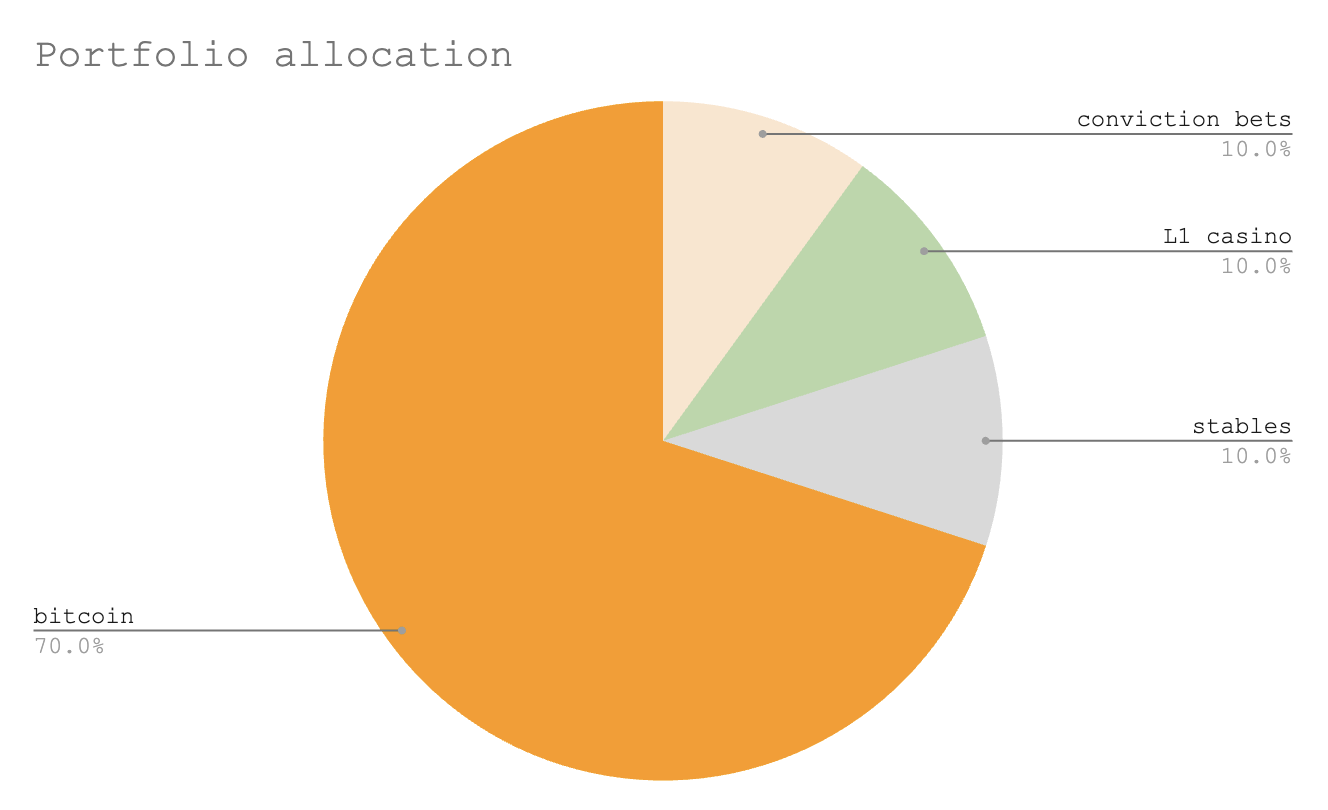
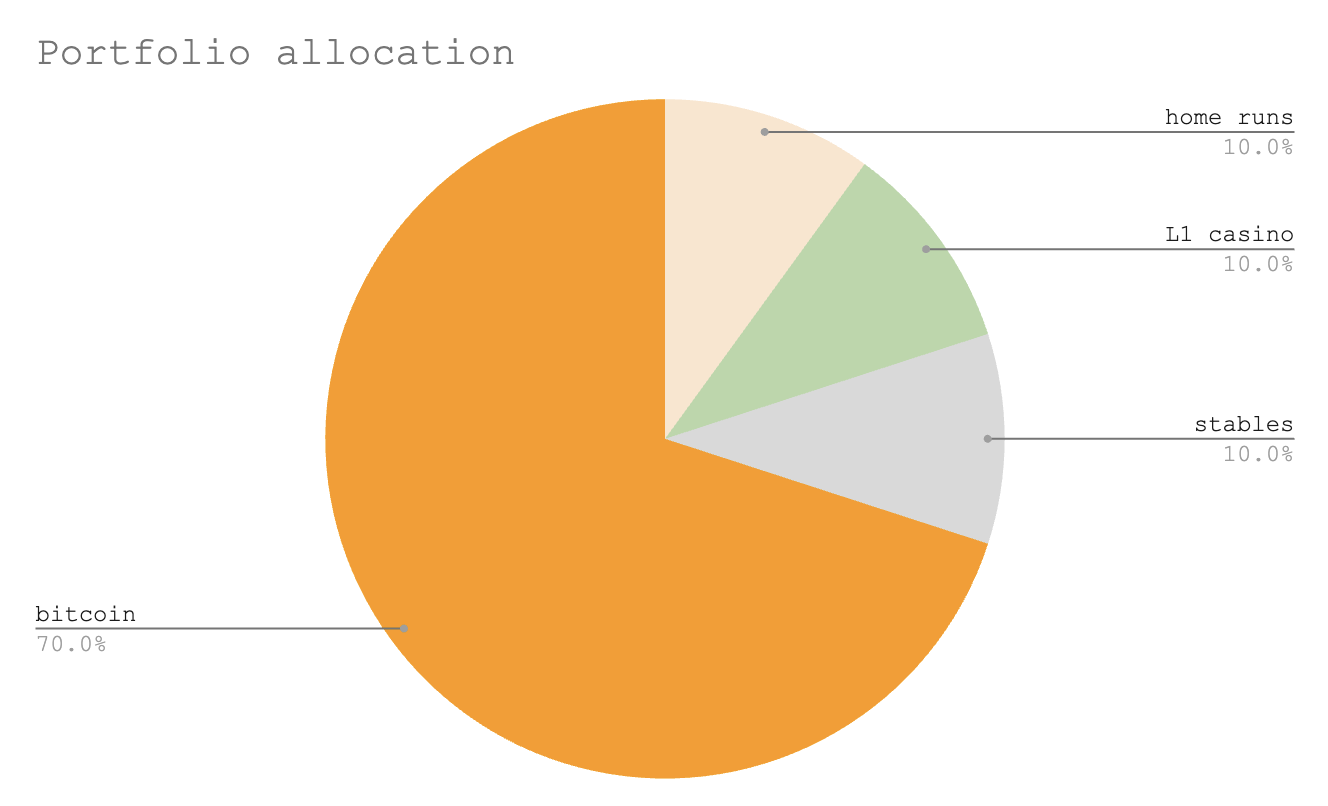
minor updates

diff --git a/_posts/2025-02-02-playbook.md b/_posts/2025-02-02-playbook.md
@@ -42,7 +42,7 @@ An ideal portfolio allocation looks as follows:
 - **70% bitcoin**. Bitcoin is the biggest and the most important asset in crypto. It is a digital gold and a store of value. The goal is to accumulate more BTC over time. My biggest lesson - don't touch or trade BTC, hold long-term.
 - **10% stables**. Always keep stables to deploy during mass liquidation events or when you find promising opportunities. Cash is the most underrated position and patience the most underrated skill out there.
 - **10% L1 casino**. Each cycle there's always a new form of speculation and activity (ICOs, NFTs, DeFi, games, memecoins) and thus there's always a chain that hosts the biggest casino for a given form of speculation. Bet on that asset until a big major event happens ($1M NFT purchase, Trump coin launch, etc). L1s top when speculation stops.
-- **10% conviction bets**. Conviction bets or homeruns are your big bets in crypto. Those require a clear thesis and a lot of patience. They are risky and take a longer time to play out, but if you know what you're doing, that's your 50-100x opportunities.
+- **10% home runs**. Home runs are your big bets in crypto. Those require a clear thesis and a lot of patience. They are risky and take a longer time to play out, but if you know what you're doing, that's your 50-100x opportunities.
 
 To simplify it, make it hard to fuck it up - keep majority of your portolio in BTC, not altcoins. Add BTC and alts during bear markets only. Don't touch BTC, sell alts 9-18 months later when the market is overheated. Do not overcomplicate it. Big money is made from holding a handful of big positions for a long time, not executing 100 smaller trades.
 
@@ -64,9 +64,9 @@ An example of over diversified portfolio allocation:
 
 ![port1](/assets/images/port1.png)
 
-## On Conviction Bets
+## On Home Runs
 
-Conviction Bets or homeruns are my favorite type of investments as they require lots of patience. Most people want to get rich quick so this will not work for them. I'm the opposite. I'm willing to wait for many months and years if needed for my thesis to play out.
+Home runs or high conviction bets are my favorite type of investments as they require lots of patience. Most people want to get rich quick so this will not work for them. I'm the opposite. I'm willing to wait for many months and years if needed for my thesis to play out.
 
 There are three main components of a homerun. I call them a holy trifecta:
 
@@ -102,7 +102,7 @@ There are a few things for this method to work:
 
 - Do not size in more when the price and your conviction go up, and your thesis turns out to be a correct one. If you're allocated into a coin early, that should be it. Do not mess up your good entry with emotions.
 
-A few examples of a clearly written thesis:
+A few examples of a clearly written thesis for high conviction bets:
 - [DeFi Renaissance thesis](https://x.com/Arthur_0x/status/1845844922085335457) by Artur
 - [Bobo thesis](https://www.youtube.com/watch?v=OIl4U1xskl8) by Crash
 - [Toshi thesis](https://www.loom.com/share/5d1466306f54415db3260b8f7728299a?sid=b03a42e9-625c-4d1f-b4fb-ded382cad39c) by Daniel
